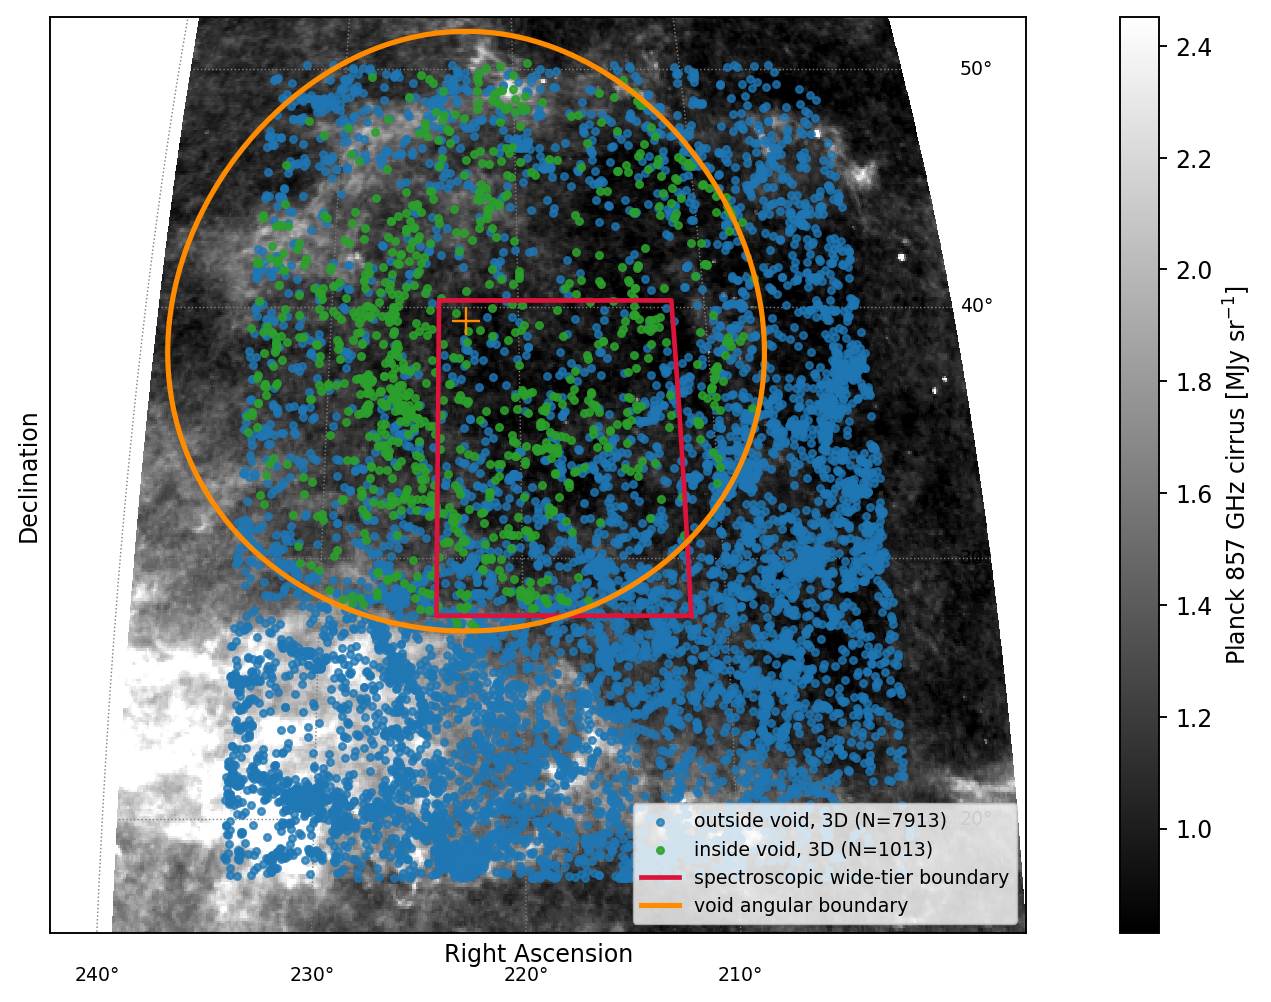
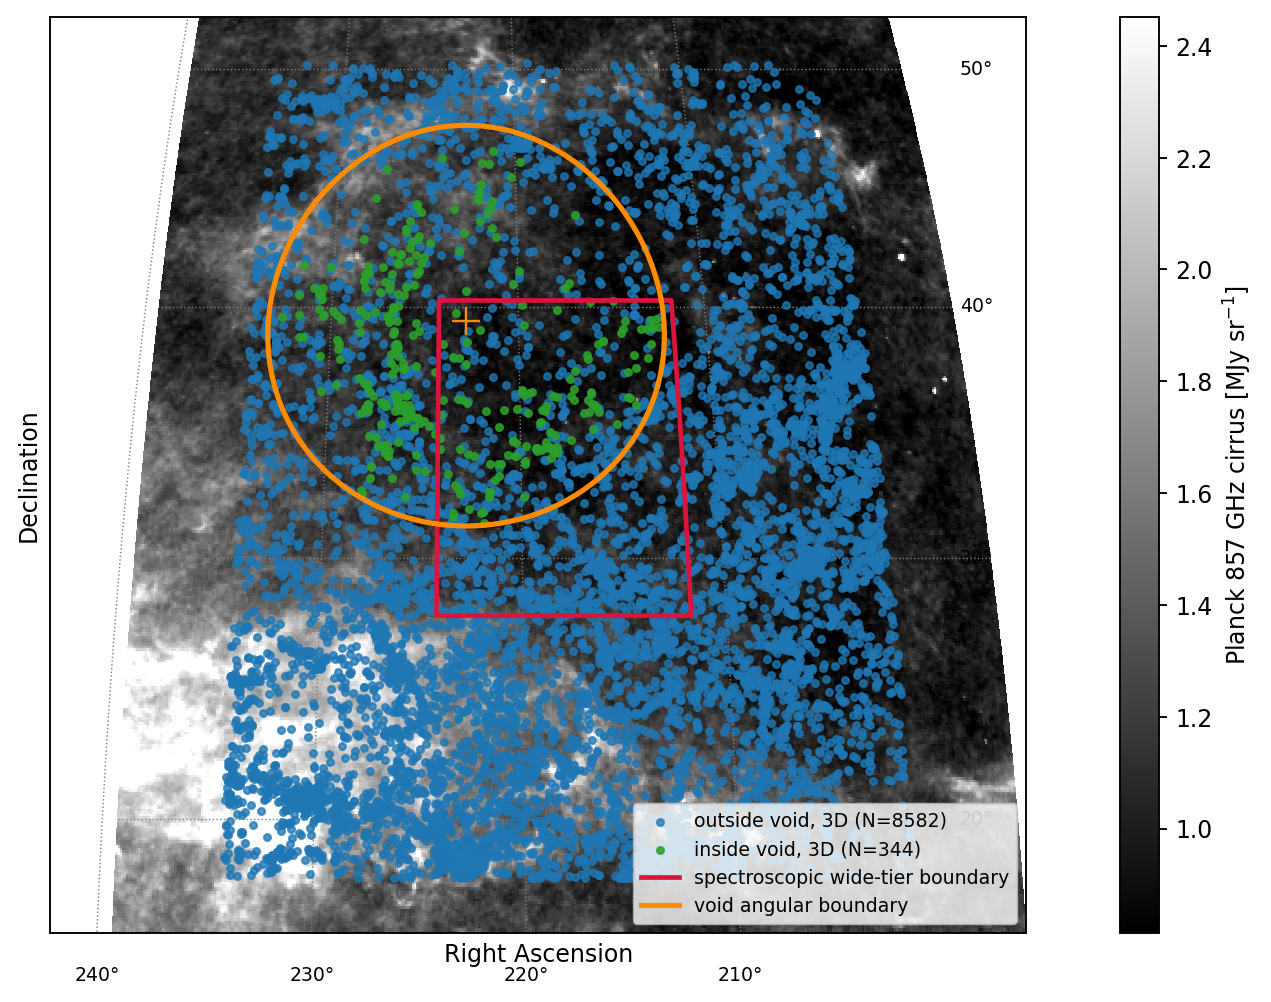
Scale the demonstration void's radius to one-half of the catalog's quoted mean value, restricting the classified sample to the void's innermost interior and away from the wall population

diff --git a/docs/cosmology_35m_R1000_proposal.tex b/docs/cosmology_35m_R1000_proposal.tex
@@ -1915,12 +1915,12 @@ Beyond the inner density structure, the sheer \emph{abundance} of low-mass halos
 
 Voids are the cleanest place to isolate it. Cold dark matter predicts that voids are filled with low-mass halos, yet the observed void galaxy population is sparse and, where present, consists of faint late-type dwarfs, the long-standing ``void phenomenon'' \cite{peebles2001}. Two resolutions are possible, and they point in opposite directions for the nature of dark matter. Either the low-mass halos exist but failed to form stars, because the ultraviolet background and inefficient gas cooling suppressed star formation below a halo-mass threshold of a few $\times10^{9}\,M_\odot$ \cite{hoeft2010}. This would leave voids full of gas-bearing but optically dark or ultra-faint systems still waiting to be found. Or the low-mass halos are themselves suppressed, as warm or fuzzy dark matter would predict. Because a void's underdensity is not replenished by accretion, a small-scale cutoff in the power spectrum shows up there with the least astrophysical contamination and the least tidal confusion. Therefore, the faint-end slope of the void galaxy and H\,\textsc{i} mass functions is among the most direct measurements of low-mass halo abundance available, complementing rather than duplicating the satellite-based bound. Voids are also a cosmological probe in their own right. The abundance, sizes, shapes, and outflow velocities of the galaxies streaming out of them constrain the growth rate of structure, the dark-energy equation of state, and the summed neutrino mass \cite{hamaus2016}. A spectroscopic survey that places accurate redshifts on faint void galaxies therefore improves the geometric definition of the voids and their interior tracer density, while also delivering the dark-matter census.
 
-Figure~\ref{fig:voidwedge} makes the void-search target selection concrete with real data rather than an assumed catalog. It shows the one void of the independent Bayesian catalog of Malandrino et al.\ \cite{malandrino2026} whose center falls inside the flagship Bo\"otes wide spectroscopic tier (Section~\ref{sec:deepfields}), with a published position and redshift rather than an estimate made for this proposal. Its radius is shown here at three-quarters of the catalog's quoted mean value, since void-finder radii can extend into the surrounding wall galaxies rather than tracking the underdensity alone. The location matters. Void membership needs the same redshift-based three-dimensional position that a UDG classification requires (Section~\ref{sec:lsb}). The imaging-only wide extension and the ultra-deep fields carry no spectroscopy and cannot supply it, while the wide, medium, and deep spectroscopic tiers can. Real SDSS-I/II Main Galaxy Sample spectroscopy over the void's own radial extent, its comoving distance plus and minus its cataloged radius, classifies each galaxy by its true three-dimensional distance from the void center rather than by sky position alone, since a flat sky projection otherwise mixes in galaxies that merely sit in front of or behind the void along the line of sight. The same cross-match against published void catalogs, repeated across the wide, medium, and deep spectroscopic tiers, is what selects the void interiors that the search of Section~\ref{sec:dwarfvoid} tiles.
+Figure~\ref{fig:voidwedge} makes the void-search target selection concrete with real data rather than an assumed catalog. It shows the one void of the independent Bayesian catalog of Malandrino et al.\ \cite{malandrino2026} whose center falls inside the flagship Bo\"otes wide spectroscopic tier (Section~\ref{sec:deepfields}), with a published position and redshift rather than an estimate made for this proposal. Its radius is shown here at one-half of the catalog's quoted mean value, restricting the demonstration to the void's innermost interior so that the classified sample targets genuine void galaxies rather than the wall population that a void-finder radius can otherwise include. The location matters. Void membership needs the same redshift-based three-dimensional position that a UDG classification requires (Section~\ref{sec:lsb}). The imaging-only wide extension and the ultra-deep fields carry no spectroscopy and cannot supply it, while the wide, medium, and deep spectroscopic tiers can. Real SDSS-I/II Main Galaxy Sample spectroscopy over the void's own radial extent, its comoving distance plus and minus its cataloged radius, classifies each galaxy by its true three-dimensional distance from the void center rather than by sky position alone, since a flat sky projection otherwise mixes in galaxies that merely sit in front of or behind the void along the line of sight. The same cross-match against published void catalogs, repeated across the wide, medium, and deep spectroscopic tiers, is what selects the void interiors that the search of Section~\ref{sec:dwarfvoid} tiles.
 
 \begin{figure}[tp]
 \centering
 \includegraphics[width=\textwidth]{void_wedge_demo.png}
-\caption{Sky projection of the one void of the independent Bayesian catalog of Malandrino et al.\ \cite{malandrino2026} whose center falls inside the flagship Bo\"otes wide spectroscopic tier (Section~\ref{sec:deepfields}), plotted at the void's own cataloged position and redshift with its radius shown at three-quarters of the catalog's quoted mean value, guarding against wall-galaxy contamination of the void-finder radius. Points are real SDSS-I/II Main Galaxy Sample spectroscopic redshifts (\texttt{survey='sdss'}, excluding BOSS/eBOSS), queried live from SkyServer DR17 over the void's own radial extent, and classified by their true three-dimensional comoving distance from the void center. Green points lie inside the void's sphere. Blue points lie outside it, at the same sky position and the same distance shell, but not within the sphere itself, since the sky projection also captures galaxies in front of and behind the void along the line of sight. The grey background is the Planck 857~GHz cirrus map of the same field, reprojected through the same transform (the flat-fielding and cirrus control common to every imaging program of the mission is treated in Section~\ref{sec:flatcirrus}). Red marks the spectroscopic wide-tier boundary. Orange marks the void's angular boundary. The projection is Mollweide, mirrored to match the view looking up at the sky rather than down at a map, with right ascension increasing to the left.}
+\caption{Sky projection of the one void of the independent Bayesian catalog of Malandrino et al.\ \cite{malandrino2026} whose center falls inside the flagship Bo\"otes wide spectroscopic tier (Section~\ref{sec:deepfields}), plotted at the void's own cataloged position and redshift with its radius shown at one-half of the catalog's quoted mean value, restricting the plotted interior to galaxies well away from the wall population that a void-finder radius can otherwise include. Points are real SDSS-I/II Main Galaxy Sample spectroscopic redshifts (\texttt{survey='sdss'}, excluding BOSS/eBOSS), queried live from SkyServer DR17 over the void's own radial extent, and classified by their true three-dimensional comoving distance from the void center. Green points lie inside the void's sphere. Blue points lie outside it, at the same sky position and the same distance shell, but not within the sphere itself, since the sky projection also captures galaxies in front of and behind the void along the line of sight. The grey background is the Planck 857~GHz cirrus map of the same field, reprojected through the same transform (the flat-fielding and cirrus control common to every imaging program of the mission is treated in Section~\ref{sec:flatcirrus}). Red marks the spectroscopic wide-tier boundary. Orange marks the void's angular boundary. The projection is Mollweide, mirrored to match the view looking up at the sky rather than down at a map, with right ascension increasing to the left.}
 \label{fig:voidwedge}
 \end{figure}
 
